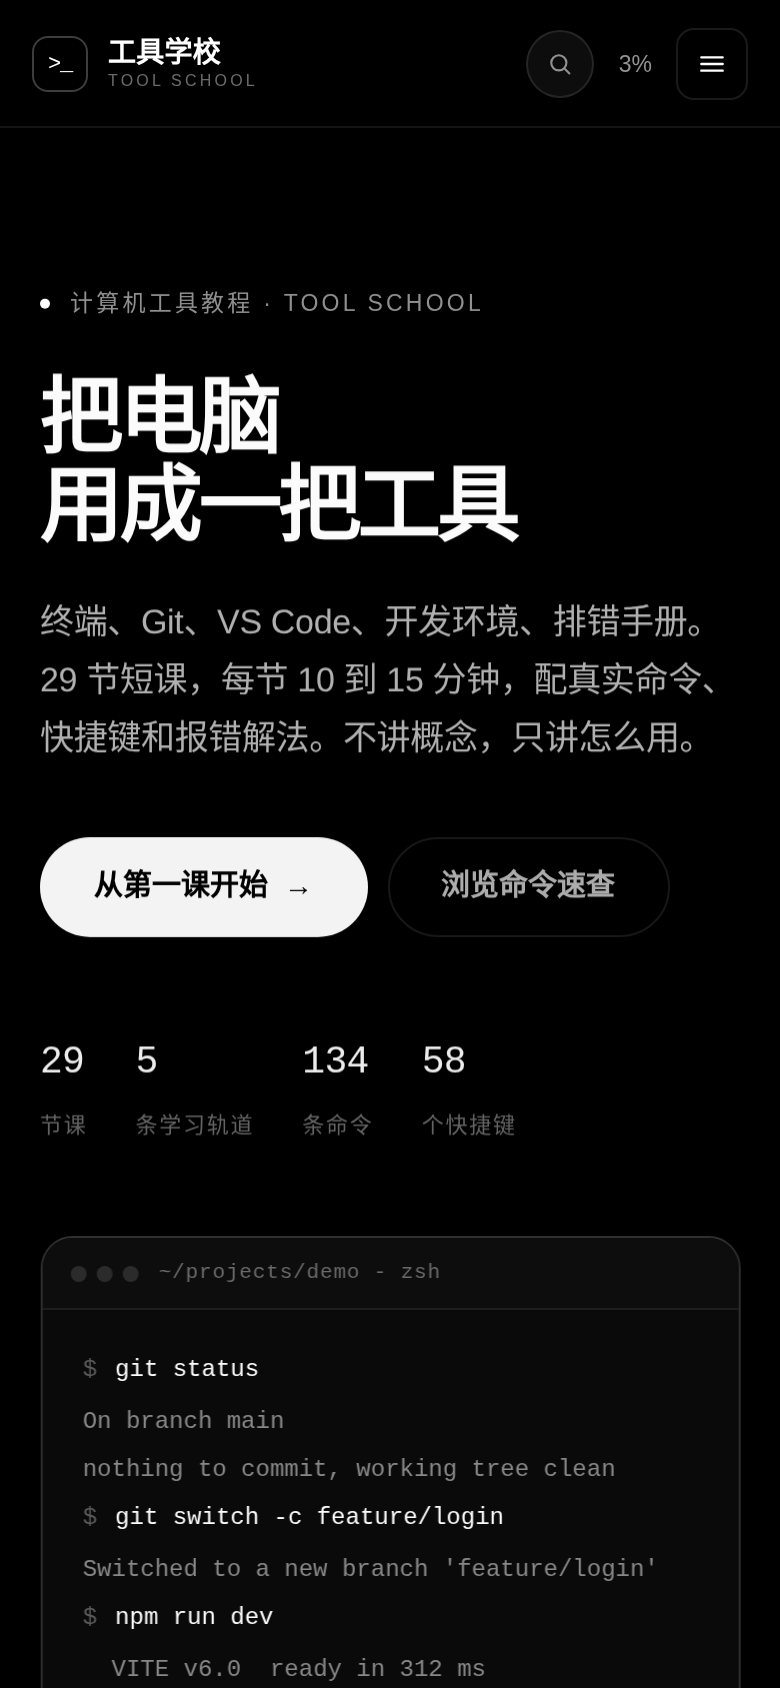
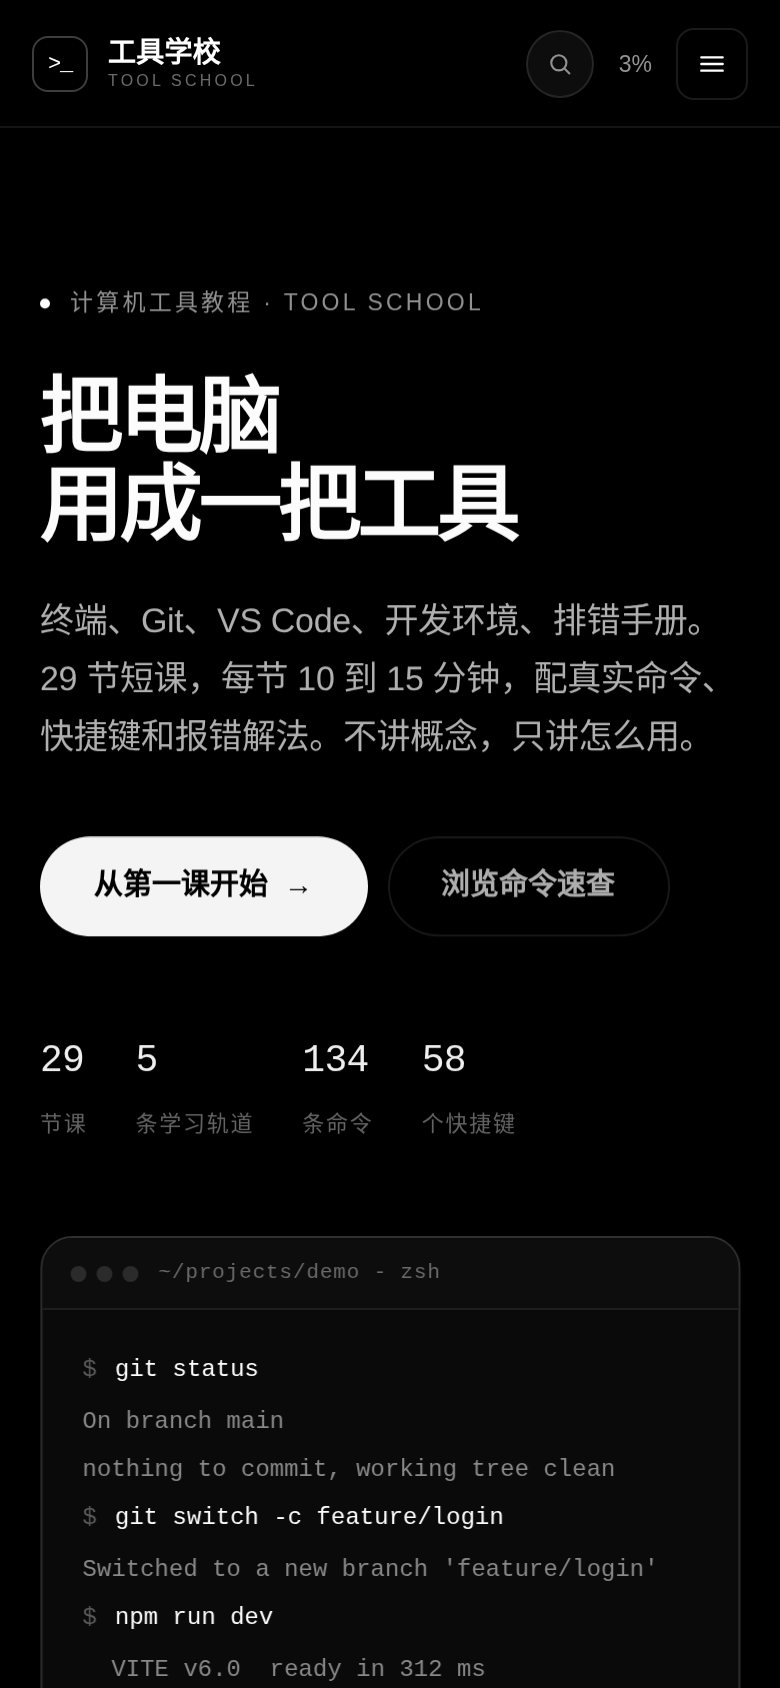
命令速查：区分 macOS 与 Linux 的少数差异
- ss 在 macOS 改用 lsof -iTCP -sTCP:LISTEN -P -n
- ls --help 是 GNU 选项，macOS 下隐藏并提示 man ls
- 不适用于当前系统的命令默认隐藏，可用「显示其他系统」查看
- 验证新增 macOS 变体与隐藏断言，共 39 项通过

diff --git a/assets/js/app.js b/assets/js/app.js
@@ -56,7 +56,7 @@
     trackLessons[l.track].push(l);
   });
 
-  var UI = { cmdQuery: '', cmdTool: 'all', scQuery: '', scCat: 'all' };
+  var UI = { cmdQuery: '', cmdTool: 'all', cmdAllPlatforms: false, scQuery: '', scCat: 'all' };
 
   /* ------------------------------------------------------------ 工具函数 */
   function esc(s) {
@@ -136,7 +136,10 @@
     }).join('');
   }
   function commandFor(c, p) {
-    return (p === 'win' && c && c.win) ? c.win : (c ? c.cmd : '');
+    if (!c) return '';
+    if (p === 'win') return c.win || c.cmd;
+    if (p === 'mac') return c.mac || c.cmd;
+    return c.cmd;
   }
   function osLabel(os) {
     var names = { mac: 'macOS', win: 'Windows', linux: 'Linux' };
@@ -634,19 +637,22 @@
     tools.forEach(function (t) {
       out.push('<button class="filter" type="button" data-tool="' + esc(t) + '">' + esc(toolName(t)) + '</button>');
     });
+    out.push('<button class="filter" type="button" id="cmdAllPlatforms">显示其他系统</button>');
     out.push('</div>');
+    out.push('<p class="note" id="cmdOsNote" style="margin:-12px 0 18px"></p>');
     tools.forEach(function (t) {
       out.push('<section class="cmd-group reveal" data-group-tool="' + esc(t) + '">');
-      out.push('<h2 class="cmd-group__title">' + esc(toolName(t)) + '<b>' + groups[t].length + ' 条</b></h2>');
+      out.push('<h2 class="cmd-group__title">' + esc(toolName(t)) + '<b data-count>' + groups[t].length + ' 条</b></h2>');
       out.push('<div class="cmd-list">');
       groups[t].forEach(function (c) {
         var p = platform();
         var effective = commandFor(c, p);
         var limited = c.os && c.os.indexOf(p) < 0;
+        var osAttr = c.os ? ' data-os="' + esc(c.os.join(',')) + '"' : '';
         var search = ((c.cmd || '') + ' ' + (c.win || '') + ' ' + (c.desc || '') + ' ' + ((c.tags || []).join(' '))).toLowerCase();
         var tags = (c.tags || []).slice(0, 2).map(function (tag) { return '<span class="tag">' + esc(tag) + '</span>'; }).join('');
         if (limited) tags += '<span class="tag tag--warn">仅 ' + esc(osLabel(c.os)) + '</span>';
-        out.push('<div class="cmd-row" data-tool="' + esc(t) + '" data-search="' + esc(search) + '">' +
+        out.push('<div class="cmd-row" data-tool="' + esc(t) + '"' + osAttr + ' data-search="' + esc(search) + '">' +
           '<div class="cmd-row__code">' + esc(effective) + '</div>' +
           '<div class="cmd-row__desc">' + inline(c.desc) + '</div>' +
           '<div class="cmd-row__side">' + tags + copyButton(effective, '复制') + '</div></div>');
@@ -660,17 +666,36 @@
   function applyCmdFilter() {
     var query = UI.cmdQuery.trim().toLowerCase();
     var tool = UI.cmdTool;
+    var p = platform();
     var visible = 0;
+    var otherOs = [];
     qa('.cmd-row[data-tool]').forEach(function (row) {
       var okTool = tool === 'all' || row.getAttribute('data-tool') === tool;
       var okQuery = !query || (row.getAttribute('data-search') || '').indexOf(query) >= 0;
-      var show = okTool && okQuery;
+      var os = row.getAttribute('data-os');
+      var okOs = !os || os.split(',').indexOf(p) >= 0;
+      if (!okOs && UI.cmdAllPlatforms) okOs = true;
+      if (!okOs) { otherOs.push(os); }
+      var show = okTool && okQuery && okOs;
       row.hidden = !show;
       if (show) visible += 1;
     });
     qa('.cmd-group[data-group-tool]').forEach(function (group) {
-      group.hidden = !qa('.cmd-row', group).some(function (r) { return !r.hidden; });
+      var rows = qa('.cmd-row', group);
+      var shown = rows.filter(function (r) { return !r.hidden; }).length;
+      group.hidden = shown === 0;
+      var counter = q('b[data-count]', group);
+      if (counter) counter.textContent = shown + ' 条';
     });
+    var note = document.getElementById('cmdOsNote');
+    if (note) {
+      var uniq = [];
+      otherOs.forEach(function (o) { if (o && uniq.indexOf(o) < 0) uniq.push(o); });
+      var labels = uniq.map(function (o) { return osLabel(o.split(',')); }).join('、');
+      if (!otherOs.length) note.textContent = '';
+      else if (UI.cmdAllPlatforms) note.textContent = '正在显示其他系统的 ' + otherOs.length + ' 条命令；标着「仅 …」的在当前系统上不可用。';
+      else note.textContent = '已隐藏 ' + otherOs.length + ' 条只在 ' + labels + ' 上提供的命令；点「显示其他系统」可以查看。';
+    }
     var empty = document.getElementById('cmdEmpty');
     if (empty) {
       empty.hidden = visible !== 0;
@@ -680,6 +705,8 @@
           : '当前只在「' + toolName(tool) + '」里搜索，点「全部」可以搜所有命令。';
       }
     }
+    var allBtn = document.getElementById('cmdAllPlatforms');
+    if (allBtn) allBtn.classList.toggle('is-active', UI.cmdAllPlatforms);
   }
   function initCommandsView() {
     var input = document.getElementById('cmdSearch');
@@ -1015,6 +1042,11 @@
       return;
     }
 
+    if (t.closest('#cmdAllPlatforms')) {
+      UI.cmdAllPlatforms = !UI.cmdAllPlatforms;
+      applyCmdFilter();
+      return;
+    }
     var cmdFilter = t.closest('#cmdFilters .filter');
     if (cmdFilter) {
       UI.cmdTool = cmdFilter.getAttribute('data-tool');

diff --git a/assets/js/data-refs.js b/assets/js/data-refs.js
@@ -26,7 +26,7 @@ window.PS.commands = [
   { tool: 'terminal', cmd: 'kill -15 PID', win: 'Stop-Process -Id 1234', desc: '请求进程正常退出，先礼后兵', tags: ['进程'] },
   { tool: 'terminal', cmd: 'kill -9 PID', win: 'Stop-Process -Id 1234 -Force', desc: '强制杀死进程，可能留下脏数据', tags: ['进程', '危险'] },
   { tool: 'terminal', cmd: 'lsof -i :3000', win: 'Get-NetTCPConnection -LocalPort 3000', desc: '查看谁占用了 3000 端口', tags: ['端口'] },
-  { tool: 'terminal', cmd: 'ss -ltnp', win: 'Get-NetTCPConnection -State Listen', desc: '列出本机所有监听端口和对应进程', tags: ['端口'] },
+  { tool: 'terminal', cmd: 'ss -ltnp', mac: 'lsof -iTCP -sTCP:LISTEN -P -n', win: 'Get-NetTCPConnection -State Listen', desc: '列出本机所有监听端口和对应进程（macOS 用 lsof）', tags: ['端口'] },
   { tool: 'terminal', cmd: 'chmod +x script.sh', desc: '给脚本添加可执行权限', tags: ['权限'], os: ['mac', 'linux'] },
   { tool: 'terminal', cmd: 'chmod 644 file', desc: '所有者可读写，其他人只读', tags: ['权限'], os: ['mac', 'linux'] },
   { tool: 'terminal', cmd: 'sudo command', win: 'Start-Process pwsh -Verb RunAs -ArgumentList "command"', desc: '以管理员权限执行，执行前看清命令', tags: ['权限', '危险'] },
@@ -40,7 +40,7 @@ window.PS.commands = [
   { tool: 'terminal', cmd: 'tar -czf out.tar.gz dir', desc: '把目录打包并 gzip 压缩', tags: ['压缩'] },
   { tool: 'terminal', cmd: 'tar -xzf out.tar.gz', desc: '解开 .tar.gz 压缩包', tags: ['压缩'] },
   { tool: 'terminal', cmd: 'man ls', win: 'Get-Help ls', desc: '查看命令的完整手册，q 退出', tags: ['帮助'] },
-  { tool: 'terminal', cmd: 'ls --help', win: 'Get-Help ls -Detailed', desc: '快速查看命令支持的参数', tags: ['帮助'] },
+  { tool: 'terminal', cmd: 'ls --help', win: 'Get-Help ls -Detailed', desc: '快速查看命令支持的参数（GNU 选项，macOS 用 man ls）', tags: ['帮助'], os: ['linux', 'win'] },
 
   /* ---------------- Git ---------------- */
   { tool: 'git', cmd: 'git --version', desc: '确认 Git 已安装及版本', tags: ['安装'] },
